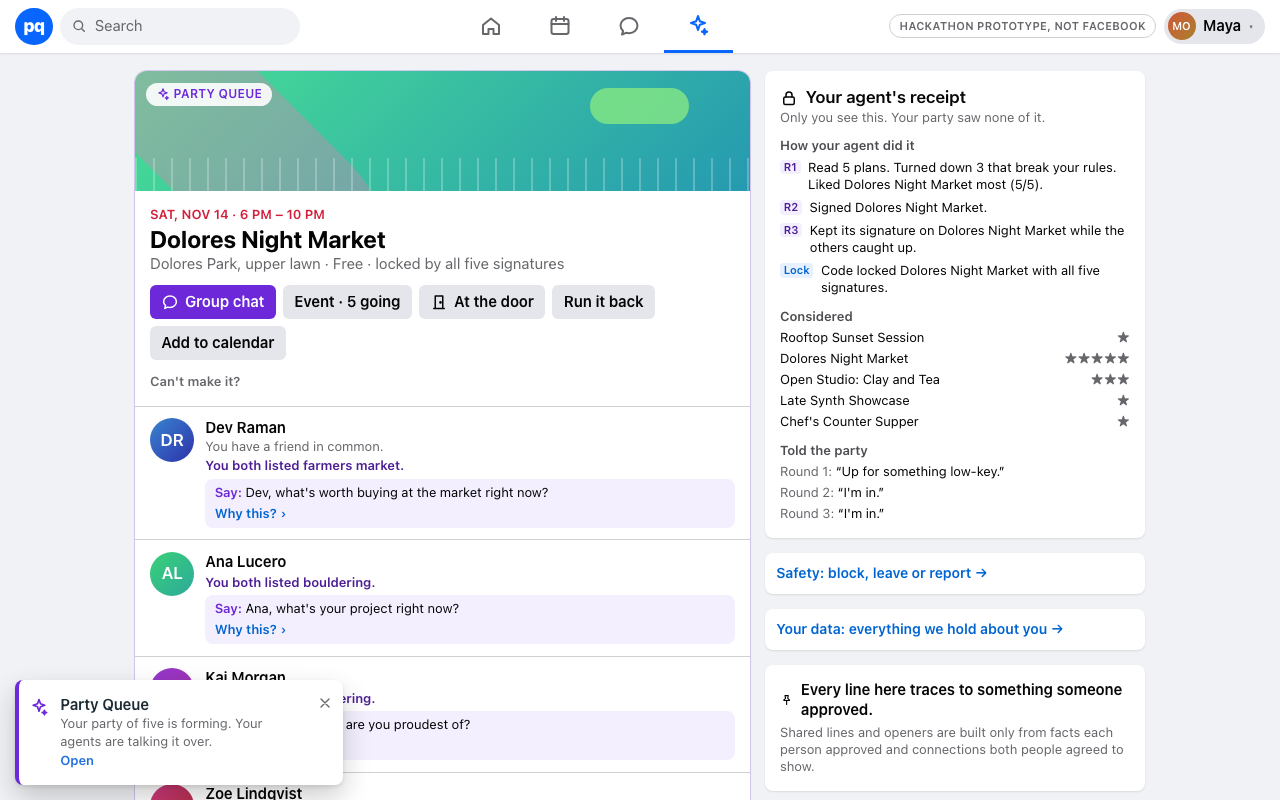
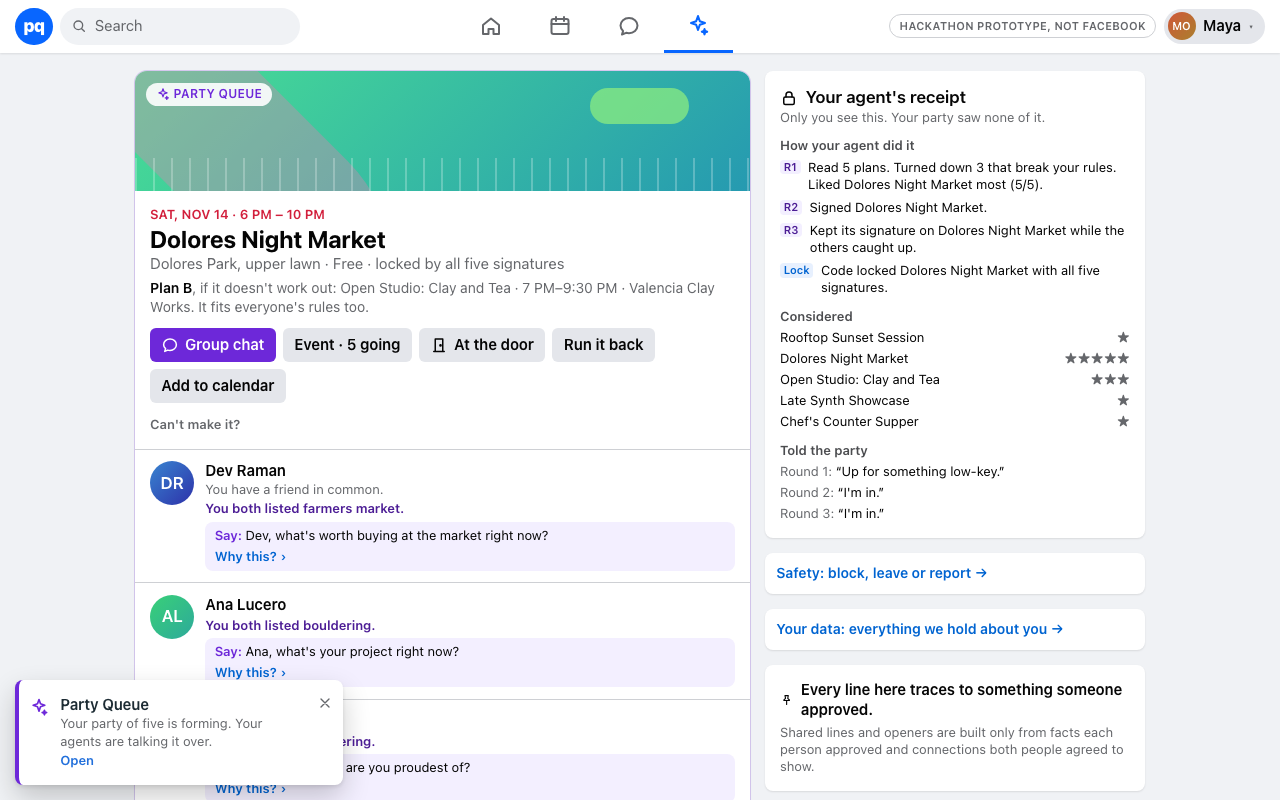
F53: Plan B
At the lock, code also names the next-best plan that fits everyone and
nobody turned down, on the party card and in the chat.

Changed region(s): [[0.0938, 0.3438, 0.5625, 0.875], [0.25, 0.875, 0.375, 0.9688], [0.125, 0.9688, 0.25, 1.0]]

diff --git a/tests/unit/planb.test.ts b/tests/unit/planb.test.ts
@@ -1,0 +1,47 @@
+import { beforeEach, describe, expect, it } from "vitest";
+import { DEMO_PARTY as D } from "@/fixtures";
+import { ownerChecks } from "@/lib/agents/judge";
+import { runParty } from "@/lib/agents/orchestrator";
+import { flag } from "@/lib/flags";
+import { planB } from "@/lib/server/planb";
+import { joinQueue } from "@/lib/server/queue";
+import { resetStore, store } from "@/lib/server/store";
+
+const FIVE = ["dev", "ana", "kai", "zoe", "maya"];
+async function run(sentences: Record<string, string> = {}) {
+  resetStore();
+  for (const id of FIVE) await joinQueue({ userId: id, eventId: D.entryEventId, sentence: sentences[id] ?? D.sentences[id]!, consentBridges: true, startTalk: false });
+  const pid = [...store().parties.keys()][0]!;
+  await runParty(pid, { paceMs: 0 });
+  return pid;
+}
+
+describe("plan B (F53)", () => {
+  beforeEach(() => {
+    process.env.PQ_PACE_MS = "0";
+  });
+
+  it("is on by default", () => expect(flag("PLAN_B")).toBe(true));
+
+  it("the demo party's plan B is the clay studio: it fits all five, nobody turned it down, and it's pinned in the chat", async () => {
+    const pid = await run();
+    const b = planB(pid)!;
+    expect(b).toEqual({ planId: "plan-evt-clay", title: "Open Studio: Clay and Tea", when: "7 PM–9:30 PM", venueName: expect.any(String) });
+    const s = store();
+    const plan = s.plans.get(b.planId)!;
+    for (const id of FIVE) expect(ownerChecks(pid, plan, s.briefs.get(`brief-${id}`)!).every((c) => c.pass)).toBe(true);
+    const chat = s.messages.filter((m) => m.chatId === s.parties.get(pid)!.chatId);
+    expect(chat.some((m) => m.kind === "system" && m.text.startsWith("Plan B, if Dolores Night Market doesn't work out: Open Studio: Clay and Tea · 7 PM–9:30 PM"))).toBe(true);
+  });
+
+  it("there's no plan B when nothing else fits everyone, and none before the lock", async () => {
+    // Dev's "up to 40" stays; Maya, Ana and Zoe close everything but the market.
+    const pid = await run({ zoe: "open to anything, budget around 15", ana: "outdoors if possible, low-key, home by 10" });
+    const s = store();
+    expect(s.plans.get(s.parties.get(pid)!.planId!)!.title).toBe("Dolores Night Market");
+    expect(planB(pid)).toBeNull();
+    resetStore();
+    for (const id of FIVE) await joinQueue({ userId: id, eventId: D.entryEventId, sentence: D.sentences[id]!, consentBridges: true, startTalk: false });
+    expect(planB([...store().parties.keys()][0]!)).toBeNull();
+  });
+});

diff --git a/app/party/page.tsx b/app/party/page.tsx
@@ -26,6 +26,7 @@ import { CantMakeIt } from "@/components/party/CantMakeIt";
 import { closestFit } from "@/lib/server/closest";
 import { hasDropped } from "@/lib/server/refill";
 import { autoForgetDue } from "@/lib/server/forget";
+import { planB } from "@/lib/server/planb";
 
 export const metadata: Metadata = { title: "Your party" };
 export const dynamic = "force-dynamic";
@@ -76,6 +77,7 @@ export default async function PartyPage({ searchParams }: { searchParams: Promis
   const noMatch = flag("NO_MATCH") ? noMatchView(v.party.id, viewer) : null;
   const story = flag("AGENT_STORY") ? agentStory(v.party.id, viewer) : null;
   const friend = flag("TELL_A_FRIEND") ? friendMessage(v.party.id, viewer) : null;
+  const backup = planB(v.party.id);
   const closest = flag("CLOSEST_FIT") && noMatch && !noMatch.requeued ? closestFit(v.party.id, viewer) : null;
   const waiting = noMatch?.requeued ? queueStatus(viewer) : null;
 
@@ -103,6 +105,11 @@ export default async function PartyPage({ searchParams }: { searchParams: Promis
                 <div className="text-[15px] text-[var(--color-ink-2)]">
                   {plan.venueName} · {price(plan.priceUsd)} · locked by {v.party.lockedBy === "signatures" ? "all five signatures" : "code, after three rounds"}
                 </div>
+                {backup && (
+                  <div className="mt-1.5 text-[14px] text-[var(--color-ink-2)]" data-testid="plan-b">
+                    <span className="font-semibold text-[var(--color-ink)]">Plan B</span>, if it doesn&apos;t work out: {backup.title} · {backup.when} · {backup.venueName}. It fits everyone&apos;s rules too.
+                  </div>
+                )}
                 <div className="mt-3 flex flex-wrap gap-2">
                   <Link href={`/chat/${v.party.chatId}`} data-testid="open-party-chat" className="press flex h-9 items-center gap-1.5 rounded-[6px] bg-[var(--color-pq)] px-3 text-[15px] font-semibold text-white">
                     <IconChat size={18} /> Group chat

diff --git a/lib/server/planb.ts b/lib/server/planb.ts
@@ -1,0 +1,39 @@
+import type { CandidatePlan } from "@/contracts";
+import { feasibleFor, rankPlans } from "@/lib/agents/judge";
+import { flag } from "@/lib/flags";
+import { clock12 } from "@/lib/format";
+import { store } from "./store";
+
+/**
+ * Plan B (F53). Nights break: a packed market, rain, a venue that closes
+ * early. Code picks the next-best plan the same way it picked the first:
+ * it passes every member's rules (code checks), nobody's agent turned it
+ * down, ranked by the same preference totals. It says nothing about anyone:
+ * only that this plan also fits everyone.
+ */
+export interface PlanB {
+  planId: string;
+  title: string;
+  when: string;
+  venueName: string;
+}
+
+export function planB(partyId: string): PlanB | null {
+  if (!flag("PLAN_B")) return null;
+  const s = store();
+  const party = s.parties.get(partyId);
+  if (!party || party.status !== "locked" || !party.planId) return null;
+  const briefs = party.memberIds.map((id) => s.briefs.get(`brief-${id}`)).filter((b): b is NonNullable<typeof b> => !!b);
+  if (briefs.length !== party.memberIds.length) return null;
+  const r1 = s.verdicts.filter((v) => v.partyId === partyId && v.round === 1);
+  const turnedDown = new Set(r1.filter((v) => v.decision === "reject").map((v) => v.planId));
+  const totals = new Map<string, number>();
+  for (const v of r1) totals.set(v.planId, (totals.get(v.planId) ?? 0) + v.preference);
+  const plans = party.candidatePlanIds
+    .map((id) => s.plans.get(id))
+    .filter((p): p is CandidatePlan => !!p && p.id !== party.planId && !turnedDown.has(p.id) && feasibleFor(partyId, p, briefs));
+  const b = rankPlans(plans, totals)[0];
+  return b ? { planId: b.id, title: b.title, when: `${clock12(b.start)}–${clock12(b.end)}`, venueName: b.venueName } : null;
+}
+
+export const planBLine = (main: string, b: PlanB) => `Plan B, if ${main} doesn't work out: ${b.title} · ${b.when} · ${b.venueName}. It fits everyone's rules too.`;

diff --git a/tests/planb.spec.ts b/tests/planb.spec.ts
@@ -1,0 +1,19 @@
+import { expect, test } from "@playwright/test";
+import { lockedParty } from "./helpers";
+
+/* F53: plan B on the party card and in the chat. */
+
+test("plan B: the party card and the chat name the next plan that fits everyone", async ({ browser, baseURL, request }) => {
+  test.setTimeout(150_000);
+  await lockedParty(request);
+  const ctx = await browser.newContext({ viewport: { width: 390, height: 844 } });
+  await ctx.addCookies([{ name: "pq_viewer", value: "maya", url: baseURL! }]);
+  const page = await ctx.newPage();
+  await page.goto("/party");
+  await expect(page.getByTestId("plan-b")).toContainText("Plan B, if it doesn't work out: Open Studio: Clay and Tea · 7 PM–9:30 PM");
+  await expect(page.getByTestId("plan-b")).toContainText("It fits everyone's rules too.");
+  await page.getByTestId("party-card").screenshot({ path: "shots/f53-plan-b.png" });
+  await page.getByRole("link", { name: "Group chat" }).click();
+  await expect(page.getByTestId("message-list")).toContainText("Plan B, if Dolores Night Market doesn't work out: Open Studio: Clay and Tea");
+  await ctx.close();
+});

diff --git a/lib/agents/orchestrator.ts b/lib/agents/orchestrator.ts
@@ -9,6 +9,7 @@ import { runTableTalk, type TableOptions, type TableResult } from "./table";
 import { pairKey } from "@/lib/graph";
 import { flag } from "@/lib/flags";
 import { chatExpiry } from "@/lib/server/clock";
+import { planB, planBLine } from "@/lib/server/planb";
 
 export interface RunOptions extends TableOptions {}
 
@@ -80,6 +81,9 @@ export function finalize(partyId: string, table: TableResult, pairs: PairResult[
     "pinned",
     [plan.id],
   );
+  // F53: plan B, from code, right under the plan.
+  const backup = planB(party.id);
+  if (backup) postMessage(chatId, null, planBLine(plan.title, backup), "system", [backup.planId]);
   const ids = party.memberIds;
   ids.forEach((from, i) => {
     const to = ids[(i + 1) % ids.length]!;

diff --git a/lib/flags.ts b/lib/flags.ts
@@ -110,6 +110,8 @@ const DEFAULTS = {
   QUEUE_PULSE: true,
   /** F52: big text on the projector for large rooms (B, or ?big=1). */
   STAGE_BIG: true,
+  /** F53: plan B: at the lock, code also names the next-best plan that fits everyone, on the party card and pinned in the chat. */
+  PLAN_B: true,
 } as const satisfies Record<string, boolean>;
 
 export type FlagName = keyof typeof DEFAULTS;

diff --git a/FEATURES.md b/FEATURES.md
@@ -81,6 +81,7 @@ hues (spread across the wheel, layout picked from a title hash).
 | 50 | One sentence, in Spanish | The whole input is one sentence in your own words; for a lot of people those words are Spanish. Reading the same rules from "salgo a las once, menos de veinte dólares" shows the brief is about meaning, not a phrasebook, and the privacy checks work in any words. | `SPANISH_SENTENCE` | done (F50) |
 | 51 | Queue pulse on the Event page | The moment someone decides whether to tap Find my party is on the Event page. "3 people are waiting near Dolores Park tonight" turns a leap into joining something already happening, and the "a few" floor keeps a small count from pointing at anyone. | `QUEUE_PULSE` | done (F51) |
 | 52 | Big text on the projector | Judges sit at the back of big rooms; 13-pixel labels on a projector are invisible from there. One key makes the whole stage readable without rearranging it. | `STAGE_BIG` | done (F52) |
+| 53 | Plan B | Real nights break: a packed market, rain, a venue that closes early. Five strangers renegotiating in a group chat is where plans die. Code already knows the next plan that fits everyone, so it says so up front. | `PLAN_B` | done (F53) |
 
 ## Done
 
@@ -138,3 +139,4 @@ hues (spread across the wheel, layout picked from a title hash).
 | F50 | **One sentence in Spanish.** The parser also reads the same rules in Spanish, for whatever the English didn't find: end times ("salgo a las once", "en casa antes de la medianoche", "termino a las 10:30"; evening by default), budgets ("menos de veinte dólares", "hasta 40", "presupuesto de 25"), no drink minimum ("sin consumo mínimo", "sin tener que beber"), public places, and every preference tag ("tranquilo", "al aire libre", "conocer gente", …, with "si es posible" softening the weight like "if possible"). Your words are kept as your words: the private preview shows the same rule chips, your secret panel quotes "salgo a las once", and every privacy check (secret scan, context audit, verifier) works on them. The lines your agent may share stay the fixed catalogue, in English. | `SPANISH_SENTENCE` | `npm test -- spanish`: `Tests 5 passed` (Maya's Spanish sentence gives 23:00, $20, no drink minimum and chill, with her own words; midnight, $40 and "si es posible" at weight 1; 10:30 → 22:30; every English demo sentence parses exactly as with the flag off; the demo party with Maya in Spanish locks the market, she turns down three, her secret quotes her Spanish and the party knows nothing; off, no rules). `npm run eval -- --mock`: brief suite still `20/20`, `7/7 suites passed`. `npx playwright test tests/spanish.spec.ts` at 390 px: the preview's three rules and chill; the party locks the market; her secret panel shows her Spanish words, `data-leaks=0`; Dev's view holds none of them: `✓ one sentence in Spanish: … (6.8s)`. Gate: typecheck exit 0, `Tests 252 passed (252)`, demo path passed. `shots/f50-spanish.png` |
 | F51 | **Queue pulse.** Under the venue on an Event page that Party Queue runs on: "Be the first in the queue near Dolores Park tonight.", "A few people are waiting near Dolores Park tonight." (one or two), then "3 people are waiting near Dolores Park tonight.", plus "1 party has formed here." Counts only, never names; you aren't counted; someone queued for anywhere tonight counts at every place that night; other places don't. Hidden once your own party has a plan there. | `QUEUE_PULSE` | `npm test -- pulse`: `Tests 3 passed` (nobody → be the first; two → a few; three → 3, with a fourth at the lake not counted and the viewer never counted; no names; a formed party and a whole-night entry from the lake). `npx playwright test tests/pulse.spec.ts` at 390 px: the three wordings as Dev, Ana, then Kai join; no names: `✓ queue pulse: … (0.4s)`. Gate: typecheck exit 0, `Tests 255 passed (255)`, demo path passed. `shots/f51-queue-pulse.png` |
 | F52 | **Big text on the projector.** B (listed under ?) or `?big=1` scales the whole `/stage` up by 1.35 for a large room, kept in the URL so a reload keeps it; the layout reflows and still fits the screen. | `STAGE_BIG` | No server logic; proved in the browser. `npx playwright test tests/stagebig.spec.ts`: after the lock, B: `data-big="true"`, the URL has `big=1`, the caption is over 1.2× taller, nothing in the stage is wider than the screen; a reload keeps it; B again turns it off: `✓ big text: … (11.1s)`; `stagekeys` passes with B in the list. Gate: typecheck exit 0, `Tests 255 passed (255)`, demo path passed. `shots/f52-big-text.png` |
+| F53 | **Plan B.** At the lock code also picks the next-best plan the same way it picked the first: passes every member's rules (code checks), nobody's agent turned it down, ranked by the same preference totals, not the locked one. The party card says "Plan B, if it doesn't work out: Open Studio: Clay and Tea · 7 PM–9:30 PM · Valencia Clay Works. It fits everyone's rules too.", and the chat gets the same line from Party Queue right under the pinned plan. It says nothing about anyone: only that this plan also fits everyone. None when nothing else fits. | `PLAN_B` | `npm test -- planb`: `Tests 3 passed` (the demo party's plan B is the clay studio, which passes all five people's rules, and the chat has the line; with Zoe's budget and Ana's curfew only the market fits, so none; none before the lock). `npx playwright test tests/planb.spec.ts`: the card and the chat lines: `✓ plan B: … (5.9s)`; `demo-path` and `chatwhy` pass. Gate: typecheck exit 0, `Tests 258 passed (258)`, demo path passed. `shots/f53-plan-b.png` |

diff --git a/README.md b/README.md
@@ -161,6 +161,7 @@ live from `/demo` → Layers, or with `PQ_FLAG_<NAME>=0|1`.
 | `SPANISH_SENTENCE` | your one sentence can be in Spanish ("salgo a las once, menos de veinte dólares, sin consumo mínimo"): the same rules and preferences, your own words kept as your words |
 | `QUEUE_PULSE` | on an Event page, how many are waiting near there tonight and how many parties have formed; counts only, and "a few" under three so a count can't single anyone out |
 | `STAGE_BIG` | big text on `/stage` for a large room: B (or `?big=1`) scales the whole projector up and it still fits the screen |
+| `PLAN_B` | plan B: at the lock, code also names the next-best plan that fits everyone and nobody turned down, on the party card and pinned in the chat |
 | `NO_MATCH` | when no plan fits all five: everyone back at the front of the queue, nobody blamed, the same five never re-form; anyone whose own rules close every plan is told privately |
 
 ## Routes
@@ -207,7 +208,7 @@ inferred from a face; no score or label about a person or a pair.
 
 ```bash
 npm run typecheck
-npm test                       # 255 unit tests (vitest)
+npm test                       # 258 unit tests (vitest)
 npm run contract:check         # fixtures and events against the Zod contracts
 npm run eval -- --mock         # 7 eval suites
 npx playwright install chromium  # once, for the browser tests

diff --git a/docs/DEVPOST.md b/docs/DEVPOST.md
@@ -68,7 +68,7 @@ server, and a test records its live stream to prove it.
 - A code judge, a verifier for public lines, and pair talk where the model only picks fact ids.
 - A projector view with a scrubber that rebuilds the board (plans, signatures, the lock) at
   any moment of the replay.
-- Vitest (255 unit tests), Playwright (65+ end-to-end specs on a production build, including
+- Vitest (258 unit tests), Playwright (65+ end-to-end specs on a production build, including
   five phones at once, every route at 390 pixels and axe accessibility checks), and an eval
   harness. Fifty features, each a layer behind one flags file, each with its proof in
   `FEATURES.md`.
